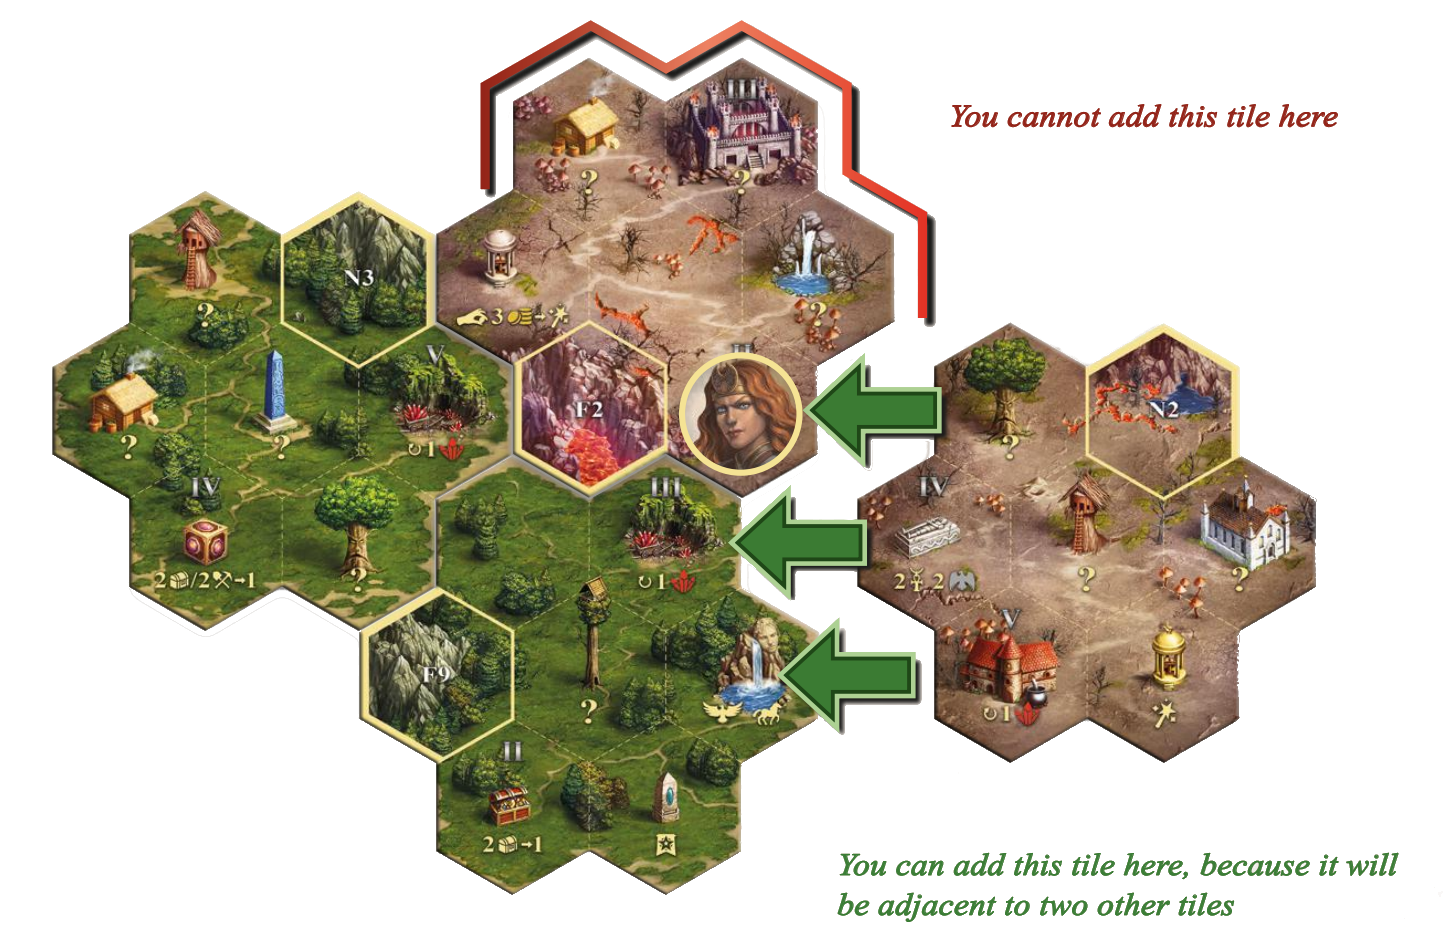
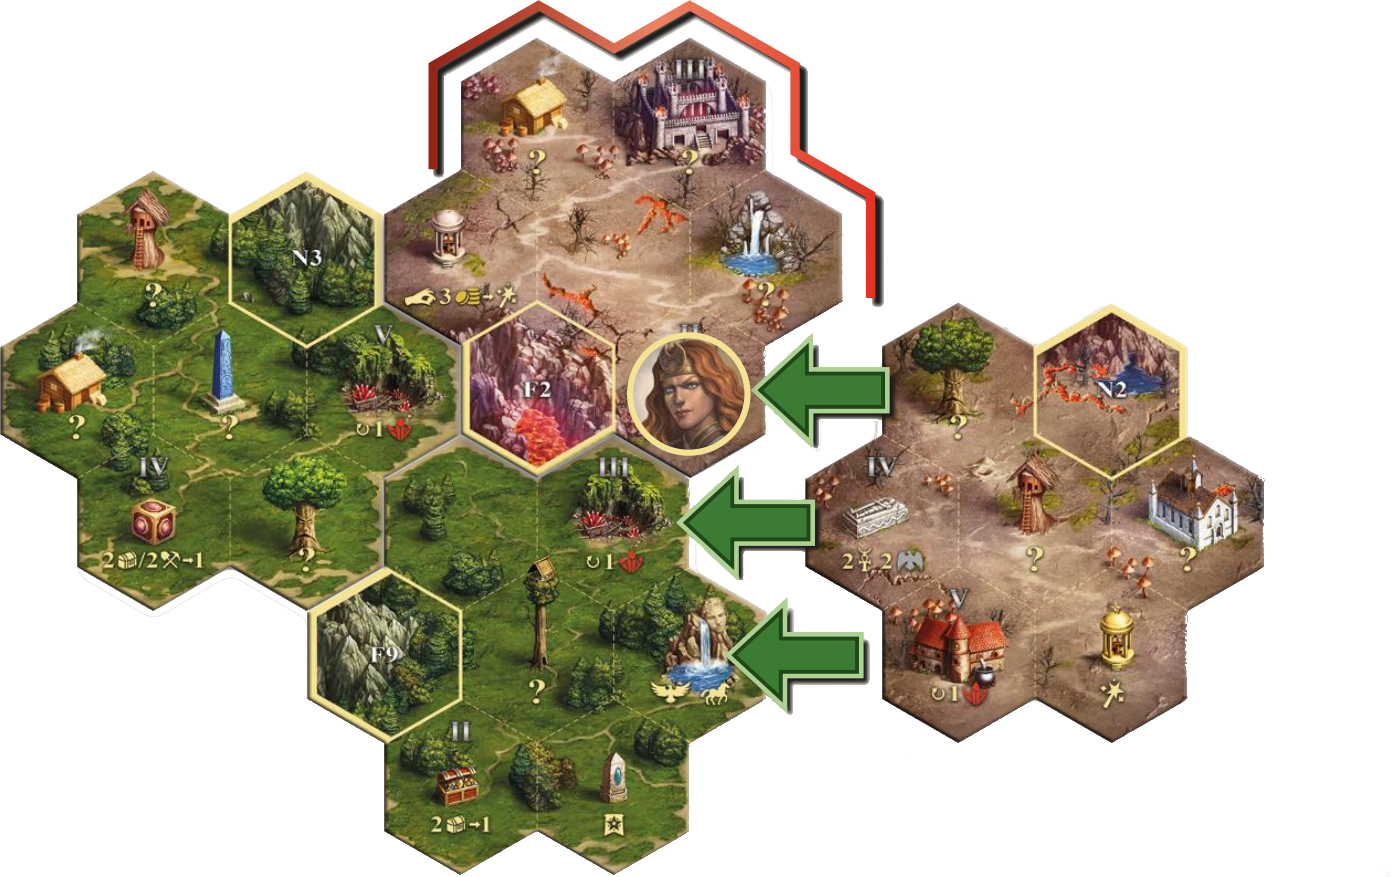
Make text on map placement an actual text

diff --git a/sections/map_elements.tex b/sections/map_elements.tex
@@ -64,6 +64,11 @@ You may always rotate Map Tiles when placing or revealing them.
 \begin{figure*}[!hb]
   \centering
   \includegraphics[width=\textwidth]{\images/placement.png}
+  \begin{tikzpicture}[overlay]
+    \node at (5, 10) {\footnotesize{\textbf{\textit{\textcolor{darkcandyapplered}{You cannot add this tile here}}}}};
+    \node at (5, 1.4) {\footnotesize{\textbf{\textit{\textcolor{cadmiumgreen}{You can add this tile here, because it will}}}}};
+    \node at (4, 1) {\footnotesize{\textbf{\textit{\textcolor{cadmiumgreen}{be adjacent to two other tiles}}}}};
+  \end{tikzpicture}
 \end{figure*}
 
 \clearpage

diff --git a/metadata.tex b/metadata.tex
@@ -75,11 +75,12 @@
 \def\qr{\_assets/qr-codes}
 
 % Colors
-\definecolor{darkcandyapplered}{rgb}{0.64, 0.0, 0.0}
-\definecolor{antiquewhite}{rgb}{0.98, 0.92, 0.84}
-\definecolor{goldenbrown}{rgb}{0.6, 0.4, 0.08}
-\definecolor{arylideyellow}{rgb}{0.91, 0.84, 0.42}
 \definecolor{amber}{rgb}{1.0, 0.49, 0.0}
+\definecolor{antiquewhite}{rgb}{0.98, 0.92, 0.84}
+\definecolor{arylideyellow}{rgb}{0.91, 0.84, 0.42}
+\definecolor{cadmiumgreen}{rgb}{0.0, 0.42, 0.24}
+\definecolor{darkcandyapplered}{rgb}{0.64, 0.0, 0.0}
+\definecolor{goldenbrown}{rgb}{0.6, 0.4, 0.08}
 
 % Command to frame images
 \newcommand\framedimage[2][]{%
